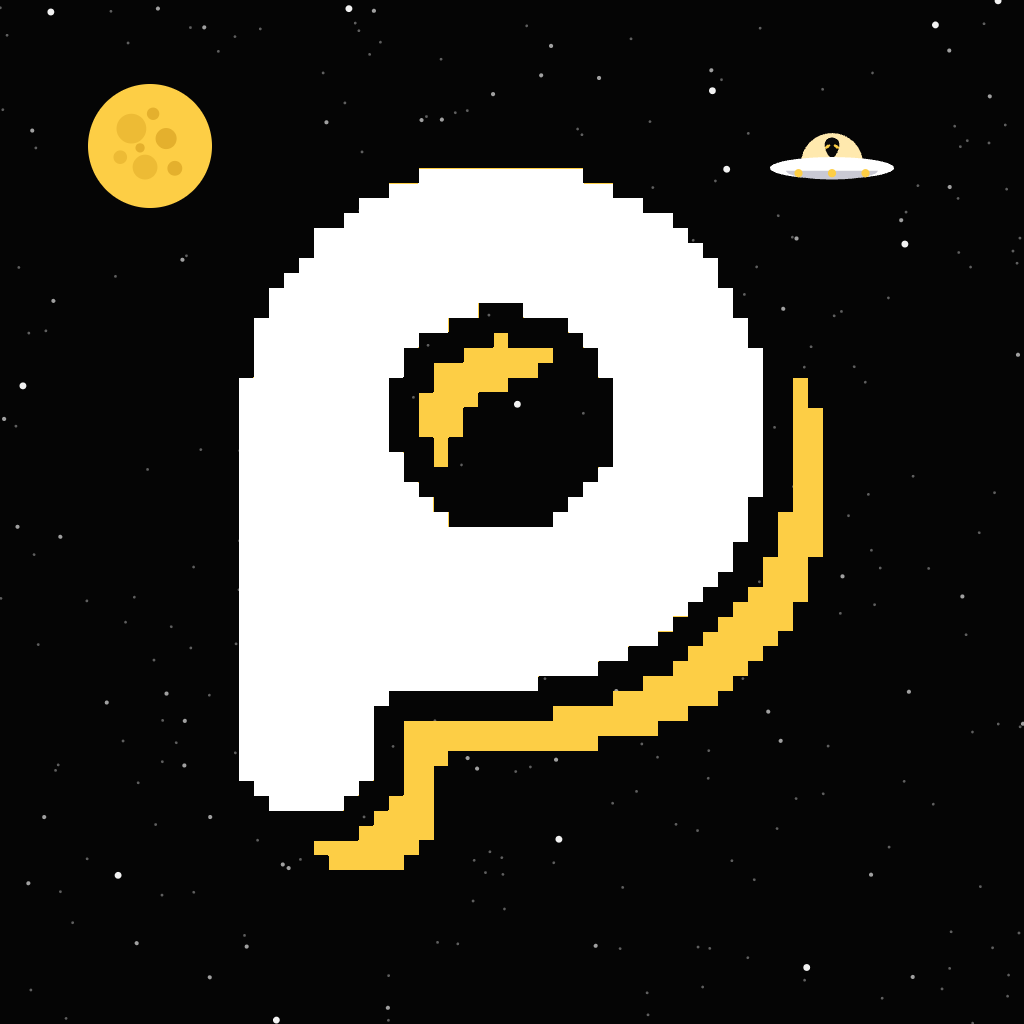
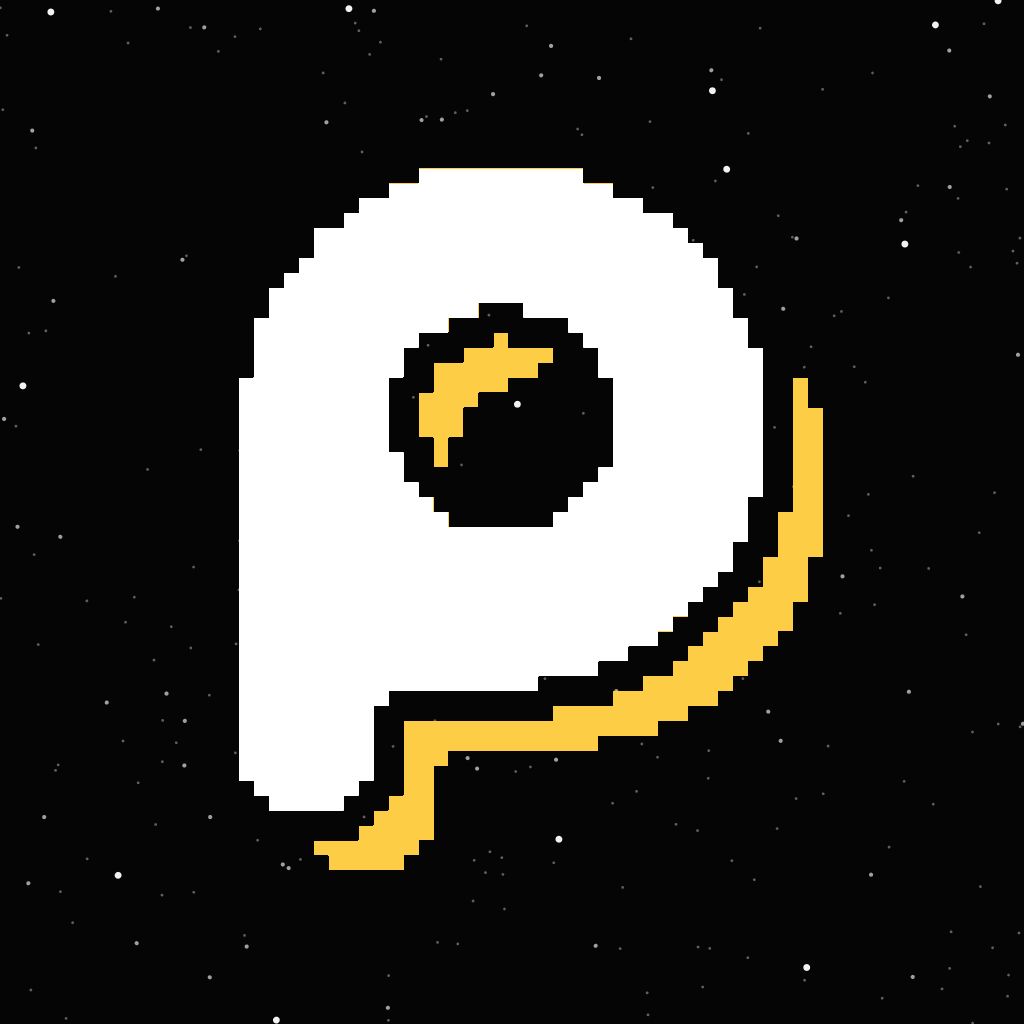
feat(assets): keep the nightly moon and saucer to the splash

Changed region(s): [[0.0625, 0.0625, 0.2188, 0.2188], [0.75, 0.125, 0.875, 0.1875]]

diff --git a/system/preview/01-brand-app-icon.html b/system/preview/01-brand-app-icon.html
@@ -101,7 +101,7 @@
     display: flex; align-items: center; justify-content: center;
     background: hsl(0, 0%, 20%);  /* channelArt.production.posterBackground */
   }
-  /* Nightly/staging surface: true black, scattered star field, crescent moon.
+  /* Nightly/staging surface: true black and a scattered star field; the splash adds the moon and saucer.
      Unlike dev, the wordmark is NOT pushed to white, nightly keeps the retro
      logo intact, yellow drop-shadow and all, because the surface already
      carries the flavor. */
@@ -117,16 +117,10 @@
     position: relative;
   }
   .night .moon, .night .ufo { position: absolute; z-index: 1; display: block; }
-  .ico-banner.night .moon { width: 26px; left: 15px; top: 13px; }
-  .ico-roku-poster.night .moon { width: 28px; left: 17px; top: 15px; }
-  .ico-topshelf.night .moon { width: 23px; left: 15px; top: 12px; }
   .ico-splash.night .moon { width: 22px; left: 14px; top: 18px; }
-  /* Saucer widths are 0.95× the moon's: the moon disc fills 87.5% of its canvas,
+  /* The saucer width is 0.95× the moon's: the moon disc fills 87.5% of its canvas,
      the saucer hull 92.2% of its own, so equal CSS widths would render the ship
-     ~5% larger. These land the rendered hull on the rendered disc. */
-  .ico-banner.night .ufo { width: 25px; right: 20px; top: 16px; }
-  .ico-roku-poster.night .ufo { width: 27px; right: 20px; top: 18px; }
-  .ico-topshelf.night .ufo { width: 22px; right: 20px; top: 13px; }
+     ~5% larger. This lands the rendered hull on the rendered disc. */
   .ico-splash.night .ufo { width: 21px; right: 15px; top: 22px; }
   .chrome.night .wm, .ico-splash.night .wm { position: relative; z-index: 2; }
 
@@ -223,7 +217,7 @@
     </div>
     <div class="kv">
       <div class="r"><span class="k">Production</span><span class="v">charcoal surface, brand mark</span></div>
-      <div class="r"><span class="k">Nightly</span><span class="v">true black, star field, moon, saucer. TestFlight and internal tracks</span></div>
+      <div class="r"><span class="k">Nightly</span><span class="v">true black, star field; moon and saucer on the splash only. TestFlight and internal tracks</span></div>
       <div class="r"><span class="k">Dev</span><span class="v">blueprint blue + grid, white glyphs, yellow takes the dev accent</span></div>
       <div class="r"><span class="k">Lab</span><span class="v">near-black green, green accent. Roku only</span></div>
       <div class="r"><span class="k">Monochrome</span><span class="v">one ink, tinted by the platform</span></div>
@@ -283,8 +277,6 @@
       </div>
       <div class="cell">
         <div class="chrome ico-banner night">
-          <img class="moon" src="../assets/nightly-fullmoon.png" alt="">
-          <img class="ufo" src="../assets/nightly-saucer.png" alt="">
           <img class="wm" src="../assets/logo-retro-dark.svg" alt="put.io wordmark · nightly">
         </div>
         <div class="cap night">nightly · staging</div>
@@ -328,8 +320,6 @@
       </div>
       <div class="cell">
         <div class="chrome ico-roku-poster night">
-          <img class="moon" src="../assets/nightly-fullmoon.png" alt="">
-          <img class="ufo" src="../assets/nightly-saucer.png" alt="">
           <img class="wm" src="../assets/logo-retro-dark.svg" alt="put.io wordmark · nightly">
         </div>
         <div class="cap night">nightly · staging</div>
@@ -376,8 +366,6 @@
       </div>
       <div class="cell">
         <div class="chrome ico-topshelf night">
-          <img class="moon" src="../assets/nightly-fullmoon.png" alt="">
-          <img class="ufo" src="../assets/nightly-saucer.png" alt="">
           <img class="wm" src="../assets/logo-retro-dark.svg" alt="put.io · nightly">
         </div>
         <div class="cap night">nightly · staging</div>
@@ -493,8 +481,8 @@
 
   <div class="note">
     <b>Stars</b>: <code>nightly-starfield.png</code>, tiled at 150px.<br>
-      <b>Moon</b>: top-left, <code>nightly-fullmoon.png</code>. It predates <code>channelArt.nightly.moonCrater</code> and draws its own crater colours.<br>
-      <b>Saucer</b>: top-right, <code>nightly-saucer.png</code>, hull no wider than the moon.<br>
+      <b>Moon</b>, splash only: top-left, <code>nightly-fullmoon.png</code>. It predates <code>channelArt.nightly.moonCrater</code> and draws its own crater colours.<br>
+      <b>Saucer</b>, splash only: top-right, <code>nightly-saucer.png</code>, hull no wider than the moon.<br>
       Static: no animation, no glow.
   </div>
 
